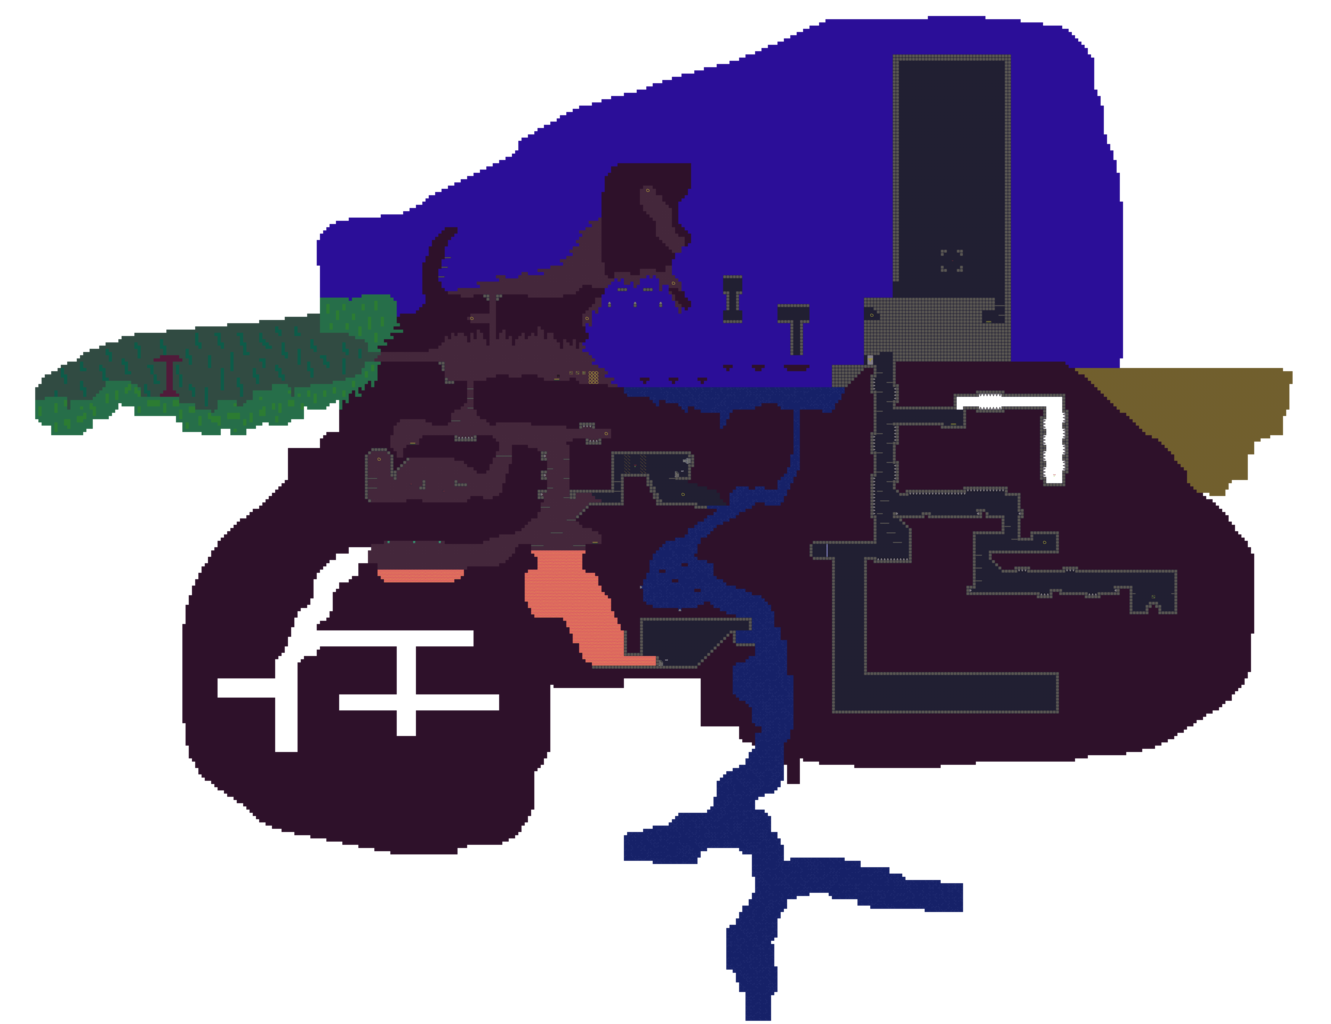
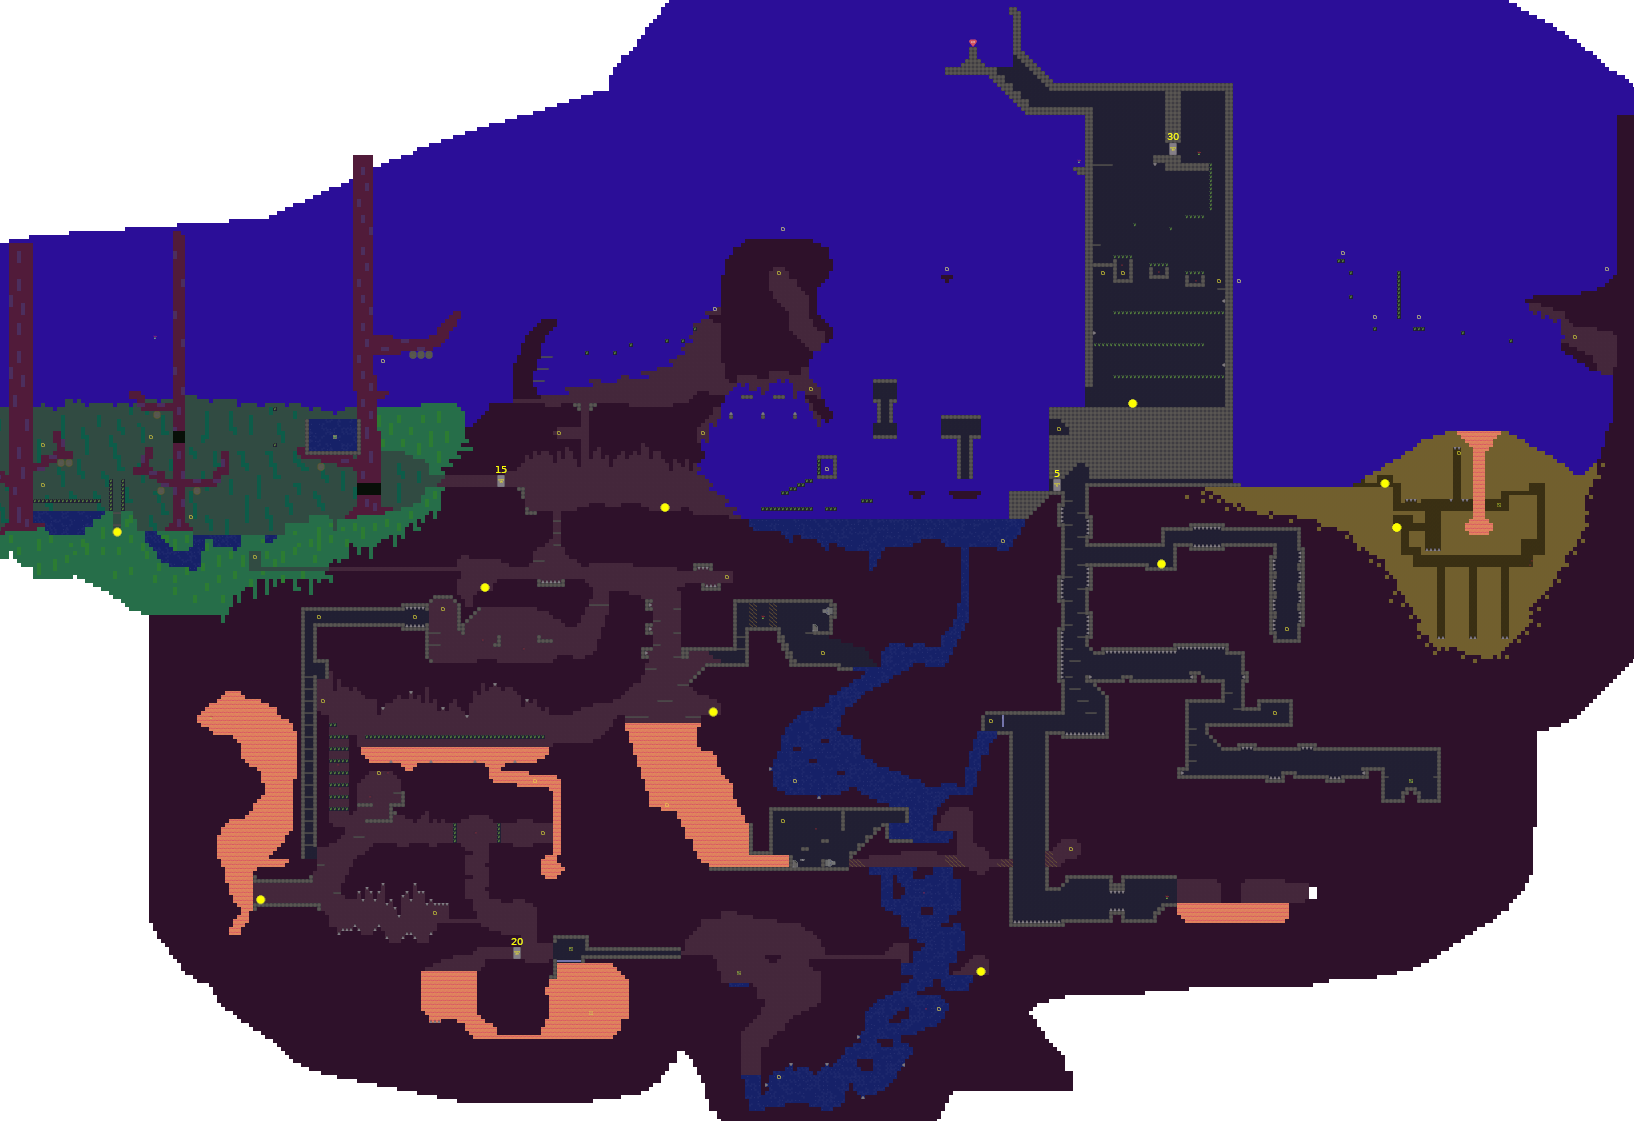
Closer to final build

diff --git a/web/public/index.html b/web/public/index.html
@@ -35,73 +35,83 @@
 
   <body>
     <div id="fpsCounter" style="display: none; position: absolute; left: 0; top: 0; z-index: 5; color: white; font-family: monospace;"></div>
-    <div style="position: relative; border: 1px solid black; width: 1200px; height: 800px">
-      <canvas
-        id="uiCanvas"
-        width="1200px"
-        height="800px"
-        style="position: absolute; top: 0px; left: px; z-index: 3"
-      ></canvas>
-      <canvas
-        id="mainCanvas"
-        width="1200px"
-        height="800px"
-        style="position: absolute; top: 0px; left: px; z-index: 2"
-      ></canvas>
-      <canvas
-        id="backgroundCanvas"
-        width="1200px"
-        height="800px"
-        style="position: absolute; top: 0px; left: px; z-index: 1"
-      ></canvas>
-      <canvas
-        id="scratchCanvas"
-        width="2048px"
-        height="1536px"
-        style="display: none"
-      ></canvas>
-    </div>
-    <div style="width: 1190px; height: 130px; border-bottom: 1px solid black; border-left: 1px solid black; border-right: 1px solid black; padding: 5px; background-color: #444; color: white;">
-      <div style="height: 32px; font-family: monospace; margin-left: 10px; font-size: 24px; display: flex; justify-content: space-between; align-items: center;">
-        <span id="infoLine" style="white-space: pre"></span>
-        <span id="hpIndicator" style="margin-right: 10px;">HP</span>
+    <div style="position: relative; width: 1202px; height: 986px">
+      <div style="position: relative; border: 1px solid black; width: 1200px; height: 800px">
+        <canvas
+          id="uiCanvas"
+          width="1200px"
+          height="800px"
+          style="position: absolute; top: 0px; left: px; z-index: 3"
+        ></canvas>
+        <canvas
+          id="mainCanvas"
+          width="1200px"
+          height="800px"
+          style="position: absolute; top: 0px; left: px; z-index: 2"
+        ></canvas>
+        <canvas
+          id="backgroundCanvas"
+          width="1200px"
+          height="800px"
+          style="position: absolute; top: 0px; left: px; z-index: 1"
+        ></canvas>
+        <canvas
+          id="scratchCanvas"
+          width="2048px"
+          height="1536px"
+          style="display: none"
+        ></canvas>
       </div>
-      <div style="display: flex">
-        <div class="powerup">
-          <div class="t" id="powerup1" style="display: none;">
-            <div>Wall</div><div>Jump</div>
-          </div>
-        </div>
 
-        <div class="powerup">
-          <div class="t" id="powerup2" style="display: none;">
-            Dash
-          </div>
+      <div style="width: 1190px; height: 130px; border-bottom: 1px solid black; border-left: 1px solid black; border-right: 1px solid black; padding: 5px; background-color: #444; color: white;">
+        <div style="height: 32px; font-family: monospace; margin-left: 10px; font-size: 24px; display: flex; justify-content: space-between; align-items: center;">
+          <span id="infoLine" style="white-space: pre"></span>
+          <span id="hpIndicator" style="margin-right: 10px; margin-top: 5px; font-size: 40px">HP</span>
         </div>
+        <div style="display: flex">
+          <div class="powerup">
+            <div class="t" id="powerup1" style="display: none;">
+              <div>Wall</div><div>Jump</div>
+            </div>
+          </div>
 
-        <div class="powerup">
-          <div class="t" id="powerup3" style="display: none;">
-            <div>Water</div><div>Power</div>
+          <div class="powerup">
+            <div class="t" id="powerup2" style="display: none;">
+              Dash
+            </div>
           </div>
-        </div>
 
-        <div class="powerup">
-          <div class="t" id="powerup4" style="display: none;">
-            <div>Shrink</div>
+          <div class="powerup">
+            <div class="t" id="powerup3" style="display: none;">
+              <div>Water</div><div>Power</div>
+            </div>
           </div>
-        </div>
 
-        <div class="powerup">
-          <div class="t" id="powerup5" style="display: none; font-size: 14px">
-            <div>Fireproof</div>
+          <div class="powerup">
+            <div class="t" id="powerup4" style="display: none;">
+              <div>Shrink</div>
+            </div>
           </div>
-        </div>
 
-        <div class="powerup">
-          <div class="t" id="powerup6" style="display: none;">
-            <div>Double</div><div>Jump</div>
+          <div class="powerup">
+            <div class="t" id="powerup5" style="display: none; font-size: 14px">
+              <div>Fireproof</div>
+            </div>
+          </div>
+
+          <div class="powerup">
+            <div class="t" id="powerup6" style="display: none;">
+              <div>Double</div><div>Jump</div>
+            </div>
           </div>
         </div>
+      </div>
+
+      <div
+        style="position: absolute; right: 5px; bottom: 50px; padding: 3px; border: 1px solid black; user-select: none; cursor: pointer; background-color: #444; color: white;"
+        onclick="clearProgress()"
+      >
+        Clear progress
       </div>
     </div>
     <script type="module" src="bundle.js"></script>

diff --git a/web/src/App.ts b/web/src/App.ts
@@ -61,6 +61,16 @@ function onKeyUp(e: KeyboardEvent) {
   }
 }
 
+let savingInterval: any = null;
+
+(window as any).clearProgress = function() {
+  if (window.confirm('Are you sure you want to completely restart the game?')) {
+    clearInterval(savingInterval);
+    localStorage.removeItem('pmvSaveData');
+    window.location.reload();
+  }
+}
+
 async function main() {
   await init();
   console.log('Hello, world: ' + get_wasm_version());
@@ -96,10 +106,10 @@ async function main() {
     gameState = new GameState(resources);
     const pmvSaveData = localStorage.getItem('pmvSaveData');
     if (pmvSaveData !== null) {
-      //gameState.apply_save_data(pmvSaveData);
+      gameState.apply_save_data(pmvSaveData);
     }
     // FIXME: There's no need to save so frequently, but also it doesn't matter?
-    setInterval(() => {
+    savingInterval = setInterval(() => {
       const saveData = gameState!.get_save_data();
       localStorage.setItem('pmvSaveData', saveData);
     }, 500);

diff --git a/tmv/src/lib.rs b/tmv/src/lib.rs
@@ -1001,9 +1001,9 @@ impl GameState {
           let block_pos = self.collision.get_position(&object.physics_handle).unwrap();
           let distance = (player_pos - block_pos).length();
           if distance < 2.0 || (*is_solid && *vanish_timer < 1.0) {
-            *vanish_timer = (*vanish_timer - dt * 1.0).max(0.0);
+            *vanish_timer = (*vanish_timer - dt * 1.2).max(0.0);
           } else {
-            *vanish_timer = (*vanish_timer + dt / 3.0).min(1.0);
+            *vanish_timer = (*vanish_timer + dt / 2.5).min(1.0);
           }
           if *vanish_timer <= 0.0 {
             // Disable collision on our collider.
@@ -1312,7 +1312,7 @@ impl GameState {
       // *) screen coordinates (ranging from 0 to 1000ish)
 
       let map_size = (image.width() as f32, image.height() as f32);
-      let map_bounds = ((-176, -112), (240, 208));
+      let map_bounds = ((-160, -112), (240, 160));
 
       let world_to_map_uv = |(world_x, world_y): (f32, f32)| {
         let uv_x = (world_x - map_bounds.0 .0 as f32) / (map_bounds.1 .0 - map_bounds.0 .0) as f32;
